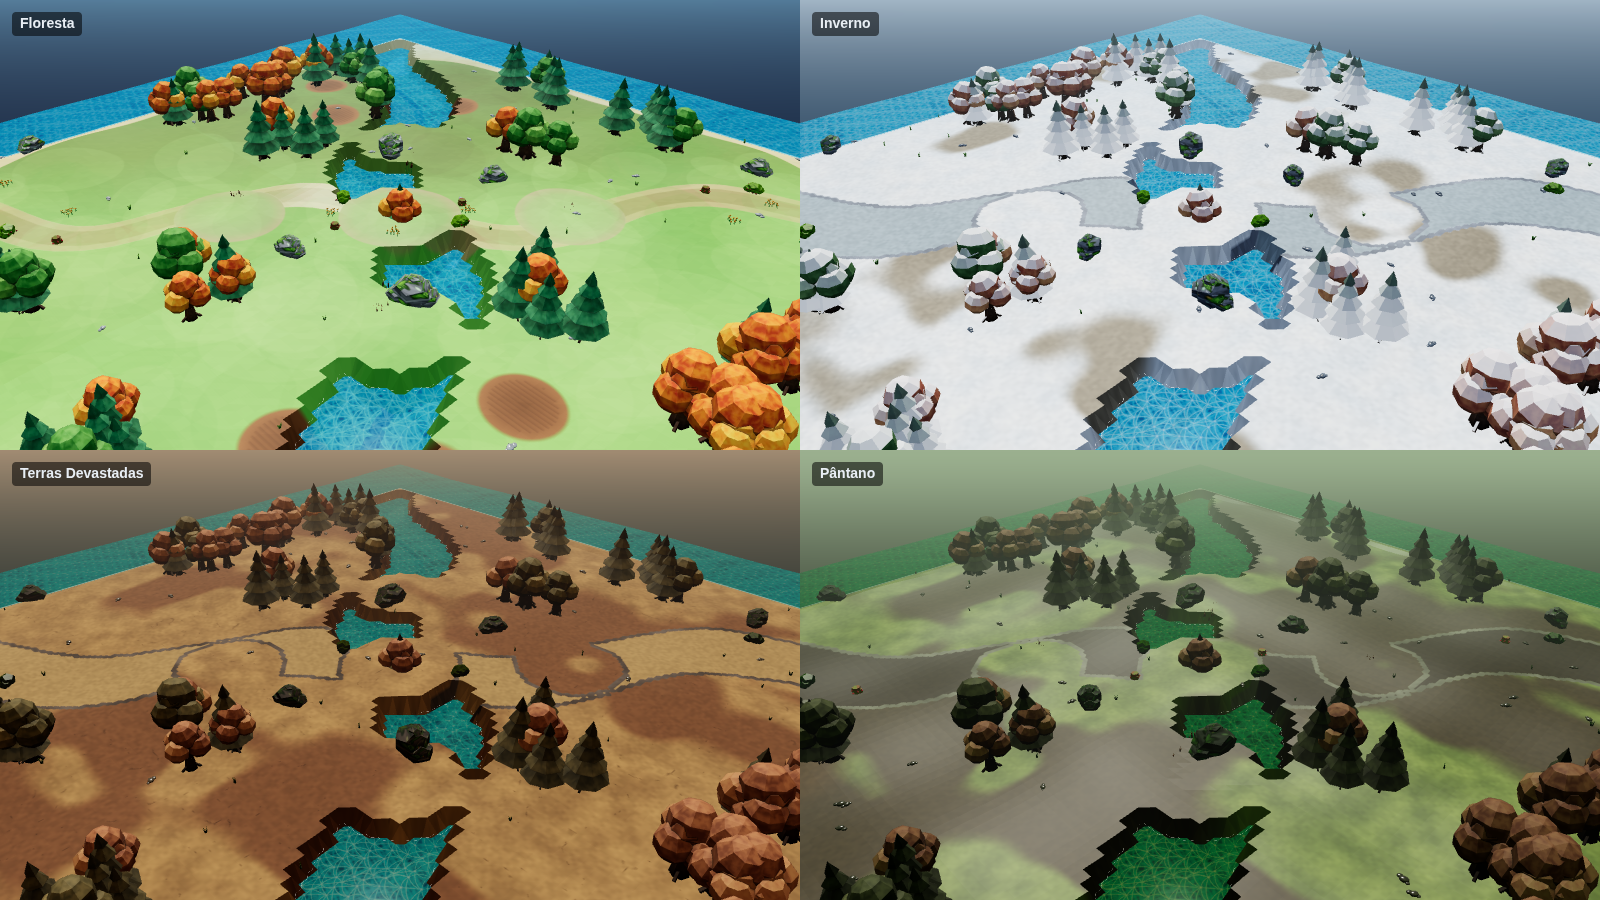
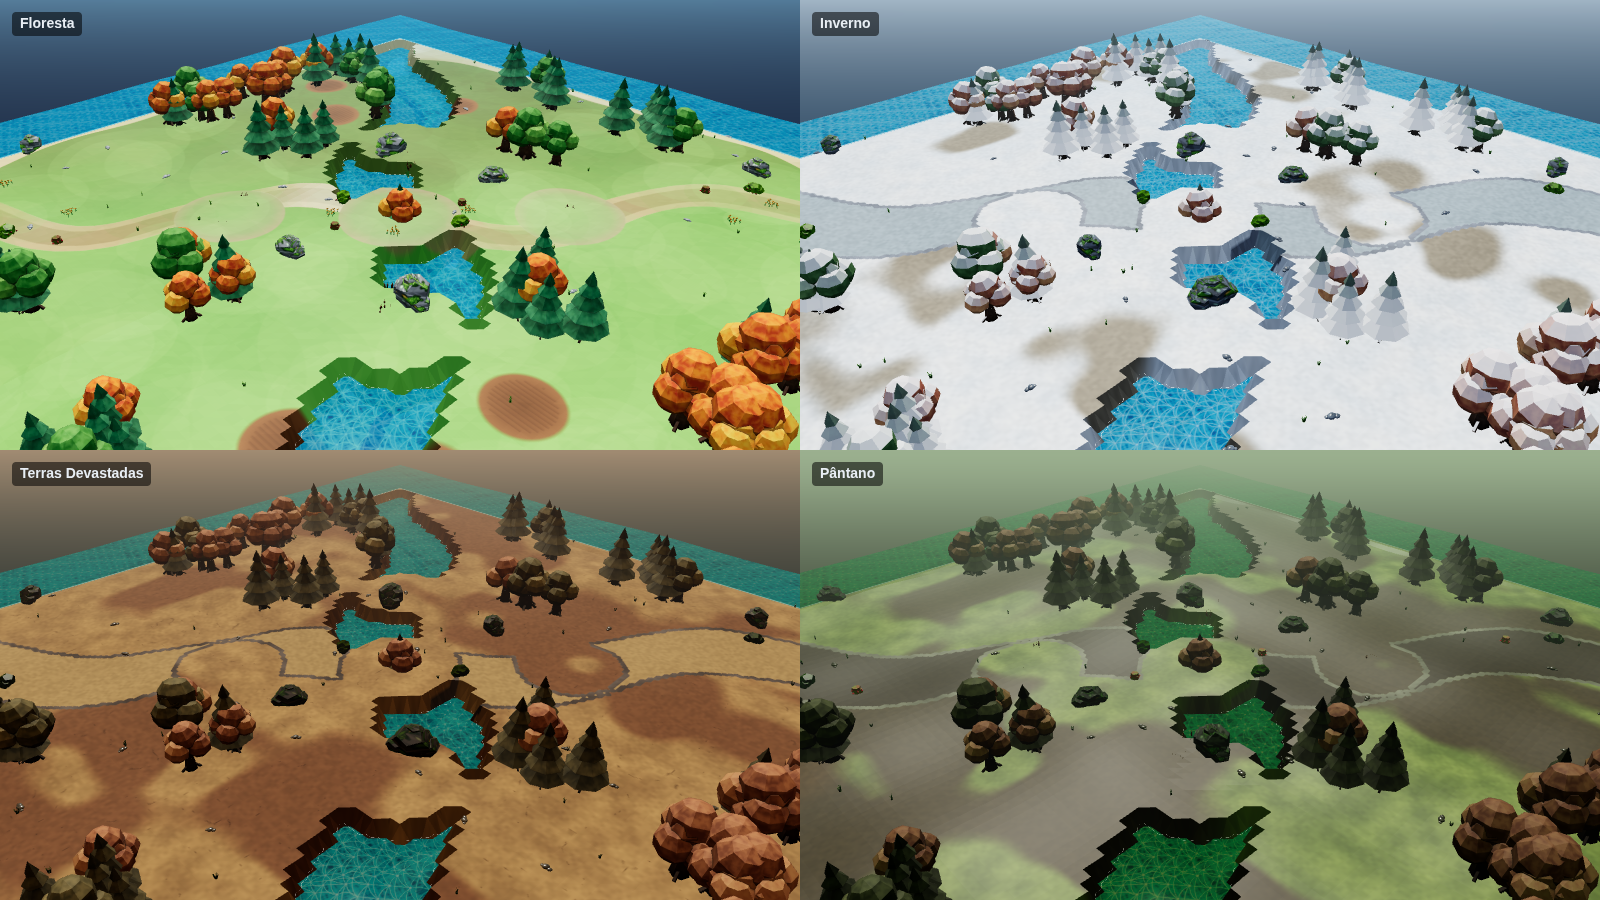
F7-04: terreno e tilesets (splat, 4 biomas, espuma, estradas, prévia)

diff --git a/src/world/Water.js b/src/world/Water.js
@@ -135,7 +135,7 @@ export class Water {
       uSize: { value: size },
       uLow: { value: low ? 1 : 0 },
       uFoam: { value: new THREE.Color(this.cfg.foam) },
-      uStrength: { value: this.cfg.foamStrength }
+      uStrength: { value: this.cfg.foamStrength * 1.6 }
     };
     const baseCompile = THREE.Material.prototype.onBeforeCompile; // inclui o patch da névoa de guerra
     mat.onBeforeCompile = function foamOnBeforeCompile(shader, renderer) {
@@ -148,14 +148,14 @@ float hh = texture2D( map, vMapUv ).r * 3.0 - 1.0;
 vec2 wp = vMapUv * uSize;
 float a;
 if ( uLow > 0.5 ) {
-  a = smoothstep( 0.22, 0.0, abs( hh + 0.12 ) ) * 0.8;
+  a = ( 1.0 - smoothstep( 0.08, 0.3, abs( hh + 0.12 ) ) ) * 0.9;
 } else {
   float swell = 0.5 + 0.5 * sin( uTime * 0.9 + wp.x * 0.11 + wp.y * 0.07 );
   float edge = -0.32 + swell * 0.38;
-  float nz = 0.55 + 0.45 * sin( wp.x * 1.7 + uTime * 0.6 ) * sin( wp.y * 1.9 - uTime * 0.5 );
-  float front = smoothstep( 0.2, 0.0, abs( hh - edge ) );
-  float trail = smoothstep( 0.26, 0.0, abs( hh - ( edge - 0.38 ) ) ) * 0.45;
-  float rim = smoothstep( 0.1, 0.0, abs( hh + 0.02 ) ) * 0.5;
+  float nz = 0.7 + 0.3 * sin( wp.x * 1.7 + uTime * 0.6 ) * sin( wp.y * 1.9 - uTime * 0.5 );
+  float front = 1.0 - smoothstep( 0.10, 0.34, abs( hh - edge ) );
+  float trail = ( 1.0 - smoothstep( 0.08, 0.30, abs( hh - ( edge - 0.38 ) ) ) ) * 0.5;
+  float rim = ( 1.0 - smoothstep( 0.04, 0.14, abs( hh + 0.02 ) ) ) * 0.6;
   a = ( front + trail ) * nz + rim;
 }
 a *= step( -0.95, hh ) * uStrength;

diff --git a/docs/TASKS.md b/docs/TASKS.md
@@ -435,7 +435,8 @@ Sonnet 5.5 escreve a spec em `docs/specs/<ID>.md`; agente **Sonnet** executa; o 
 - `TODO` · ART+PERF · Dep: F1-04 · Ciclo dia/noite opcional, SSAO leve, bloom para fogo/magias, color grading por tileset, outline de seleção; tudo desligável nos presets.
 
 ### F7-04 · Terreno e tilesets
-- `DOING(agente-f7-04, 2026-10-08)` · ART+CONTENT · Dep: F2-05 · Splat map (grama, terra, areia, pedra, neve, lama), penhascos/elevação, estradas, 4 tilesets estilo WC2 (Floresta, Inverno, Terras Devastadas, Pântano), costa com espuma.
+- `REVIEW` · ART+CONTENT · Dep: F2-05 · Splat map (grama, terra, areia, pedra, neve, lama), penhascos/elevação, estradas, 4 tilesets estilo WC2 (Floresta, Inverno, Terras Devastadas, Pântano), costa com espuma.
+- **Resultado**: `src/data/tilesets.js` (4 tilesets + `splatWeights`), textura por splat em `src/models/environment/tilesetTextures.js` (≤ 2048² lógicos, `?texq=` escala), cliffs com estratos nas cores de vértice (`TerrainView`), `roads`/`splatMasks` opcionais no JSON do mapa, água/espuma/decoração/árvores/céu-névoa por tileset (`Water`, `Decorations`, `TreeManager`, `SceneManager.applyTileset`), espuma = 1 draw call (shader + DataTexture 256²; versão estática em `texq=low`). `verdejante` idêntico ao anterior (caminho legado). Prévia: `/terrain-preview.html` (seletor + comparar 4 + mapa); `?tileset=` força o tileset no jogo. Capturas em `tools/ui-captures/terrain/`. Bench `inicial`: 159,7 fps / 655 calls (antes 146,9 / 700; sem regressão). Limitação: árvores mortas/nevadas são tinta+neve por shader sobre os mesmos modelos (sem malhas novas — dependem de ART/Blender).
 
 ### F7-05 · VFX
 - `TODO` · ART+PERF · Dep: F1-08 · Partículas GPU em pool (instanced), destruição de construções com escombros, corpos que decaem, sangue/faíscas, pegadas de construção por estágio, magias.

diff --git a/src/data/maps/README.md b/src/data/maps/README.md
@@ -58,6 +58,14 @@ Cada mapa é um JSON em `src/data/maps/<id>.json`, registrado em `index.js` (`ge
   Convenção: acampamentos em terra firme, ≥ 25 de qualquer `startSlot`; em mapas 1×1 os pares
   são espelhados (ponto → oposto).
 - **`hidden`** (F6-09): `true` = não aparece em `listMaps()` (lista da Escaramuça); `getMap(id)` e `listMaps({ includeHidden: true })` ainda o devolvem. Usado por `tutorial`.
+- **`tileset`** (F7-04): `verdejante` (Floresta, padrão; `ilhas` é alias legado), `inverno`, `devastadas` (Terras Devastadas) ou `pantano`
+  (definições em `src/data/tilesets.js`: paleta/splat, água, espuma, névoa/céu, decoração e árvores). Só render — não afeta sim nem
+  pathfinding. `?tileset=<id>` na URL força o tileset de qualquer mapa (depuração); a página `terrain-preview.html` mostra os 4 e compara.
+  `verdejante` mantém exatamente o visual anterior; os demais pintam o terreno por splat map (grama/terra/areia/pedra/neve/lama por
+  altura, declive e ruído). Mapas gerados: `generateMap({ theme })` aceita os mesmos ids e grava em `tileset`.
+- **`roads`** (F7-04, opcional): estradas/trilhas pintadas na textura — `[{ "points": [[x, z], ...], "width": 2.2 }, ...]` (mundo; `width` opcional).
+- **`splatMasks`** (F7-04, opcional): manchas forçadas no splat — `[{ "layer": "dirt"|"sand"|"rock"|"snow"|"mud"|"grass"|"road", "x", "z", "r", "strength"? }]`
+  (uma mancha `dirt` r=6 já é criada sob cada `startSlot`). Ignorado pelo tileset `verdejante`.
 - **`decorationDensity`**: reservado (decorações não-jogáveis); não usado ainda.
 
 ## Mapas
